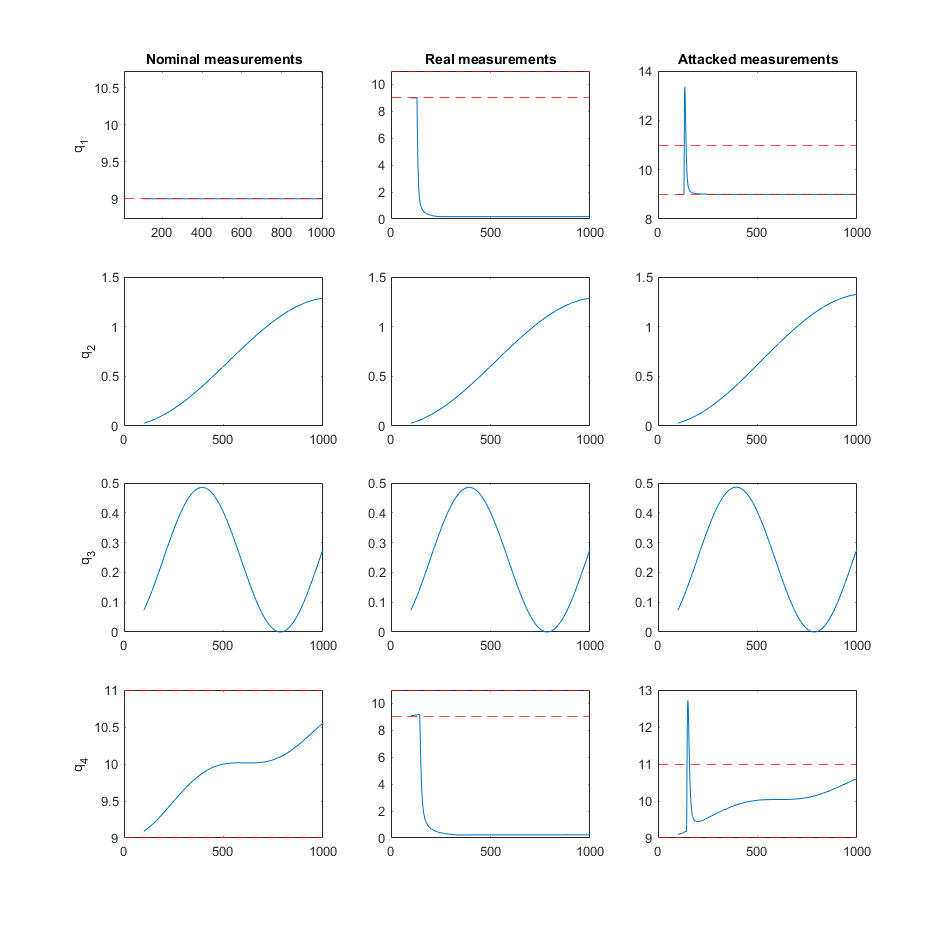
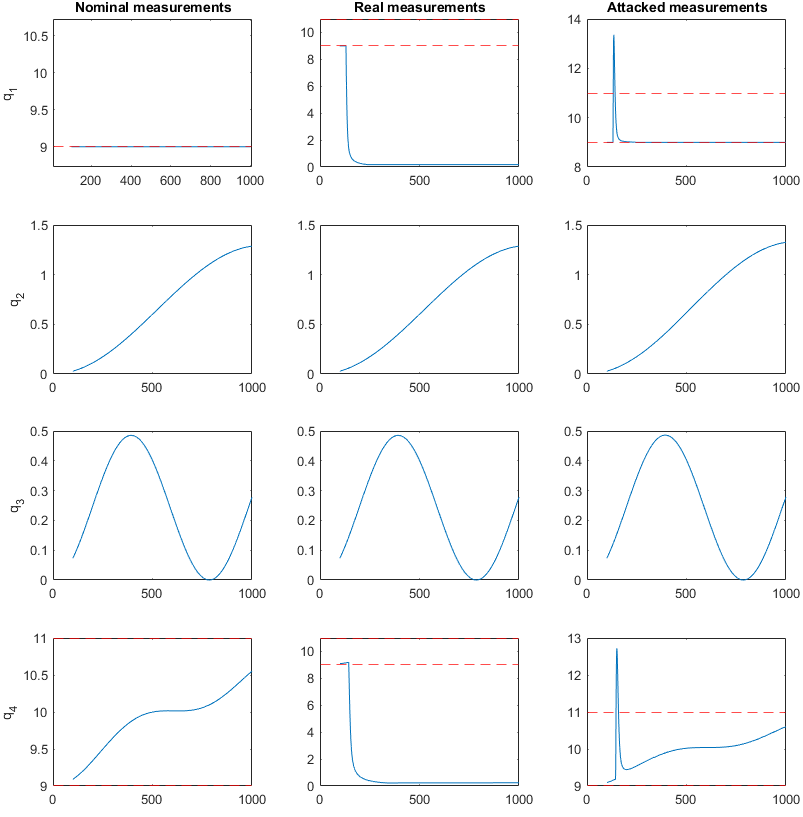
add attack performance plotting and update loss function (unchecked)

diff --git a/Plot_attack_performance.m b/Plot_attack_performance.m
@@ -4,85 +4,37 @@ clc
 clear
 close all
 
-detector_train_flag = 0;
-attack_percentage = 1;
-Run_sim;
+% detector_train_flag = 0;
+% attack_percentage = 1;
+% Run_sim;
 
 %% get a generated attack
 load('attack_support.mat');
 load('test_result.mat');
-attack_data = ramp_attack_policy(policy_param,Z_attack_data(:,1));
+index_high_detect = find(stealth_index == max(stealth_index));
+z_attack_data = Z_attack_data(:,index_high_detect);  % highest detection probability 
+plot_single_attack_performance;
 
-% define attack parameters in simulation
-attack_start_times      = attack_start_injection*ones(n_meas,1);
-attack_full_times       = attack_start_times +  100;
-attack_final_deviations = zeros(n_meas,1);
+index_low_detect = find(stealth_index == min(stealth_index));
+z_attack_data = Z_attack_data(:,index_low_detect);  % lowest detection probability
+plot_single_attack_performance;
 
-attack_start_times(attack_indices)      = attack_data(1:n_attacked_nodes);
-attack_full_times(attack_indices)       = attack_start_times(attack_indices) + attack_data(n_attacked_nodes+1:2*n_attacked_nodes);
-attack_final_deviations(attack_indices) = attack_data(2*n_attacked_nodes+1:3*n_attacked_nodes);
+index_high_effect = find(effect_index == max(effect_index));
+z_attack_data = Z_attack_data(:,index_high_effect);  % highest effectiveness 
+plot_single_attack_performance;
 
-%% run simulation
-out = sim("sample_system.slx");
+index_low_effect = find(effect_index == min(effect_index));
+z_attack_data = Z_attack_data(:,index_low_effect);  % lowest effectiveness 
+plot_single_attack_performance;
 
-y = out.measurements;
-ya = out.attacked_measurements;
-ya_time = ya.Time;
-ya_data = reshape(ya.Data,size(ya.Data,1),size(ya.Data,3)).';
-
-%% plot results
-figure
-% nominal plot
-subplot(4,3,1);
-plot(y_nominal.Time(y_nominal.Time>detection_start),y_nominal.Data(y_nominal.Time>detection_start,1));
-ylabel('q_1');
-title('Nominal measurements');
-hold on, yline(q_ref*(1+eta),'r--');
-hold on, yline(q_ref*(1-eta),'r--');
-subplot(4,3,4);
-plot(y_nominal.Time(y_nominal.Time>detection_start),y_nominal.Data(y_nominal.Time>detection_start,2));
-ylabel('q_2');
-subplot(4,3,7);
-plot(y_nominal.Time(y_nominal.Time>detection_start),y_nominal.Data(y_nominal.Time>detection_start,3));
-ylabel('q_3');
-subplot(4,3,10);
-plot(y_nominal.Time(y_nominal.Time>detection_start),y_nominal.Data(y_nominal.Time>detection_start,4));
-ylabel('q_4');
-hold on, yline(q_ref*(1+eta),'r--');
-hold on, yline(q_ref*(1-eta),'r--');
-
-% attacked real plot
-subplot(4,3,2);
-plot(y.Time(y.Time>detection_start),y.Data(y.Time>detection_start,1));
-title('Real measurements')
-hold on, yline(q_ref*(1+eta),'r--');
-hold on, yline(q_ref*(1-eta),'r--');
-subplot(4,3,5);
-plot(y.Time(y.Time>detection_start),y.Data(y.Time>detection_start,2));
-subplot(4,3,8);
-plot(y.Time(y.Time>detection_start),y.Data(y.Time>detection_start,3));
-subplot(4,3,11);
-plot(y.Time(y.Time>detection_start),y.Data(y.Time>detection_start,4));
-hold on, yline(q_ref*(1+eta),'r--');
-hold on, yline(q_ref*(1-eta),'r--');
-
-
-% attacked real plot
-subplot(4,3,3);
-plot(ya_time(ya_time>detection_start),ya_data(ya_time>detection_start,1));
-title('Attacked measurements');
-hold on, yline(q_ref*(1+eta),'r--');
-hold on, yline(q_ref*(1-eta),'r--');
-subplot(4,3,6);
-plot(ya_time(ya_time>detection_start),ya_data(ya_time>detection_start,2));
-subplot(4,3,9);
-plot(ya_time(ya_time>detection_start),ya_data(ya_time>detection_start,3));
-subplot(4,3,12);
-plot(ya_time(ya_time>detection_start),ya_data(ya_time>detection_start,4));
-hold on, yline(q_ref*(1+eta),'r--');
-hold on, yline(q_ref*(1-eta),'r--');
-
-
+figure (1)
+sgtitle(['Highest detection probability, effect = ', num2str(effect_index(index_high_detect)),', detection prob =', num2str(stealth_index(index_high_detect))]);
+figure (2)
+sgtitle(['lowest detection probability, effect = ', num2str(effect_index(index_low_detect)),', detection prob =', num2str(stealth_index(index_low_detect))]);
+figure (3)
+sgtitle(['Highest effectiveness, effect = ', num2str(effect_index(index_high_effect)),', detection prob =', num2str(stealth_index(index_high_effect))]);
+figure (4)
+sgtitle(['lowest effectiveness, effect = ', num2str(effect_index(index_low_effect)),', detection prob =', num2str(stealth_index(index_low_effect))]);
 
 
 

diff --git a/plot_single_attack_performance.m b/plot_single_attack_performance.m
@@ -1,0 +1,78 @@
+detector_train_flag = 0;
+attack_percentage = 1;
+Run_sim;
+
+attack_data = ramp_attack_policy(policy_param,z_attack_data);
+
+% define attack parameters in simulation
+attack_start_times      = attack_start_injection*ones(n_meas,1);
+attack_full_times       = attack_start_times +  100;
+attack_final_deviations = zeros(n_meas,1);
+
+attack_start_times(attack_indices)      = attack_data(1:n_attacked_nodes);
+attack_full_times(attack_indices)       = attack_start_times(attack_indices) + attack_data(n_attacked_nodes+1:2*n_attacked_nodes);
+attack_final_deviations(attack_indices) = attack_data(2*n_attacked_nodes+1:3*n_attacked_nodes);
+
+%% run simulation
+out = sim("sample_system.slx");
+
+y = out.measurements;
+ya = out.attacked_measurements;
+ya_time = ya.Time;
+ya_data = reshape(ya.Data,size(ya.Data,1),size(ya.Data,3)).';
+
+%% plot results
+LW = 1.5;
+FS = 1.5;
+figure
+% nominal plot
+subplot(4,3,1);
+plot(y_nominal.Time(y_nominal.Time>detection_start),y_nominal.Data(y_nominal.Time>detection_start,1),'k-',LineWidth=LW);
+ylabel('q_1',FontSize=FS);
+title('Nominal measurements');
+hold on, yline(q_ref*(1+eta),'r--',LineWidth=LW);
+hold on, yline(q_ref*(1-eta),'r--',LineWidth=LW);
+subplot(4,3,4);
+plot(y_nominal.Time(y_nominal.Time>detection_start),y_nominal.Data(y_nominal.Time>detection_start,2),'k-',LineWidth=LW);
+ylabel('q_2',FontSize=FS);
+subplot(4,3,7);
+plot(y_nominal.Time(y_nominal.Time>detection_start),y_nominal.Data(y_nominal.Time>detection_start,3),'k-',LineWidth=LW);
+ylabel('q_3',FontSize=FS);
+subplot(4,3,10);
+plot(y_nominal.Time(y_nominal.Time>detection_start),y_nominal.Data(y_nominal.Time>detection_start,4),'k-',LineWidth=LW);
+ylabel('q_4',FontSize=FS);
+hold on, yline(q_ref*(1+eta),'r--',LineWidth=LW);
+hold on, yline(q_ref*(1-eta),'r--',LineWidth=LW);
+
+% attacked real plot
+subplot(4,3,2);
+plot(y.Time(y.Time>detection_start),y.Data(y.Time>detection_start,1),'k-',LineWidth=LW);
+title('Real measurements')
+hold on, yline(q_ref*(1+eta),'r--',LineWidth=LW);
+hold on, yline(q_ref*(1-eta),'r--',LineWidth=LW);
+subplot(4,3,5);
+plot(y.Time(y.Time>detection_start),y.Data(y.Time>detection_start,2),'k-',LineWidth=LW);
+subplot(4,3,8);
+plot(y.Time(y.Time>detection_start),y.Data(y.Time>detection_start,3),'k-',LineWidth=LW);
+subplot(4,3,11);
+plot(y.Time(y.Time>detection_start),y.Data(y.Time>detection_start,4),'k-',LineWidth=LW);
+hold on, yline(q_ref*(1+eta),'r--',LineWidth=LW);
+hold on, yline(q_ref*(1-eta),'r--',LineWidth=LW);
+
+
+% attacked real plot
+subplot(4,3,3);
+plot(ya_time(ya_time>detection_start),ya_data(ya_time>detection_start,1),'k-',LineWidth=LW);
+title('Attacked measurements');
+hold on, yline(q_ref*(1+eta),'r--',LineWidth=LW);
+hold on, yline(q_ref*(1-eta),'r--',LineWidth=LW);
+ylim([8.9 14])
+subplot(4,3,6);
+plot(ya_time(ya_time>detection_start),ya_data(ya_time>detection_start,2),'k-',LineWidth=LW);
+subplot(4,3,9);
+plot(ya_time(ya_time>detection_start),ya_data(ya_time>detection_start,3),'k-',LineWidth=LW);
+subplot(4,3,12);
+plot(ya_time(ya_time>detection_start),ya_data(ya_time>detection_start,4),'k-',LineWidth=LW);
+hold on, yline(q_ref*(1+eta),'r--',LineWidth=LW);
+hold on, yline(q_ref*(1-eta),'r--',LineWidth=LW);
+ylim([8.9 20])

diff --git a/training_generator.m b/training_generator.m
@@ -67,6 +67,22 @@ sgtitle("Training Performance")
 for ind = 1:mini_batch_size:n_samples
     iteration = iteration +1;
 
+%     % Pretrained network performace
+%     out = double(predict(gen_net,Z_dlarray));
+%     f1_out = f1(stealth_net,out,thresh_1);
+%     f2_out = f2(effect_net, out,thresh_2);
+%     pre_score = sum((f1_out<=0) & (f2_out<=0))/n_samples;
+%     disp("pre-trained score = " + num2str(pre_score) + " ::: Target = " + num2str(alpha))
+%     
+%     figure;
+%     y_stealth = predict(stealth_net,out);
+%     y_effect  = predict(effect_net,out);
+%     subplot(121)
+%     plot(y_stealth,'b.'), hold on, plot(ones(n_samples,1)*thresh_1,'k')
+%     subplot(122)
+%     plot(y_effect,'b.'), hold on, plot(ones(n_samples,1)*thresh_2,'k')
+%     sgtitle("Training Performance")
+
     % Getting mini-batch input data
     idx = ind:min(ind+mini_batch_size-1,n_samples);
     Z_iter = Z_dlarray(:,idx);
@@ -80,6 +96,21 @@ for ind = 1:mini_batch_size:n_samples
     [gen_net,trailingAvg,trailingAvgSq] = adamupdate(gen_net, gradients, ...
         trailingAvg, trailingAvgSq, iteration, ...
         learnRate, gradientDecayFactor, squaredGradientDecayFactor);
+
+%     Post-trained network performace
+%     out = double(forward(gen_net,Z_dlarray));
+%     
+%     f1_out = f1(stealth_net,out,thresh_1);
+%     f2_out = f2(effect_net,out,thresh_2);
+%     post_score = sum((f1_out<=0) & (f2_out<=0))/n_samples;
+%     disp("post-trained score = " + num2str(post_score) + " ::: Target = " + num2str(alpha))
+%     
+%     y_stealth = forward(stealth_net,out);
+%     y_effect  = forward(effect_net,out);
+%     subplot(121)
+%     hold on, plot(y_stealth,'r.')
+%     subplot(122)
+%     hold on, plot(y_effect,'r.')
 end
 % Display the training progress.
 figure(loss_fig_gen)
@@ -110,7 +141,8 @@ function [gradients,states,loss] = model_loss(net,Z,beta_n,stealth_net,effect_ne
 [g_theta, states] = forward(net,Z);
 % loss    = relu((sum(exp(f1(stealth_net,g_theta,thresh_1))) - beta_n)) + ...
 %            relu((sum(exp(f2(effect_net,g_theta,thresh_2))) - beta_n));
-loss = relu(mean(f1(stealth_net,g_theta,thresh_1))) + relu(mean(f2(effect_net,g_theta,thresh_2))/10);
+% loss = relu(mean(f1(stealth_net,g_theta,thresh_1))) + relu(mean(f2(effect_net,g_theta,thresh_2))/10);
+loss    = relu((sum(exp(leakyrelu(f1(stealth_net,g_theta,thresh_1))+ leakyrelu(f2(effect_net,g_theta,thresh_2)))) - beta_n));
 
 gradients = dlgradient(loss,net.Learnables);
 

diff --git a/workshop.m b/workshop.m
@@ -9,7 +9,7 @@ detector_train_flag = 0;
 Run_sim;
 
 %% global training parameters
-n_epoch         = 3;
+n_epoch         = 5;
 
 generate_generator_data_flag = true;
 n_random_sim_samples = 2000;  % Number of random attack dataset per epoch used to train descriminators
@@ -20,7 +20,7 @@ alpha = 0.8;  % probability of success
 % beta  = 1 - alpha;
 
 thresh_1 = 0.5;  % threshold for stealthiness
-thresh_2 = 0.1;  % threshold for effectivness
+thresh_2 = 5;  % threshold for effectivness
 thresholds = [thresh_1,thresh_2];
 
 
@@ -93,7 +93,6 @@ for i_epoch = 1:n_epoch
     stealth_index = dlarray([stealth_index_rand;stealth_index_gen].','CB');
     
 %     save('sim_sample_system_data','sim_obj','effect_index','stealth_index','Z_attack_data','-v7.3');
-
 
     %% Train Discriminator network
     [effect_net,stealth_net] = training_discriminators(effect_net,stealth_net,Z_attack_data,effect_index,stealth_index,loss_curve_param_dis1,loss_curve_param_dis2,i_epoch);

diff --git a/generator_example_linear_system.m b/generator_example_linear_system.m
@@ -3,6 +3,6 @@ clear
 close all
 
 detector_train_flag = 0;
-attack_percentage = 0.5;
+attack_percentage = 1;
 Run_sim;
 workshop;
